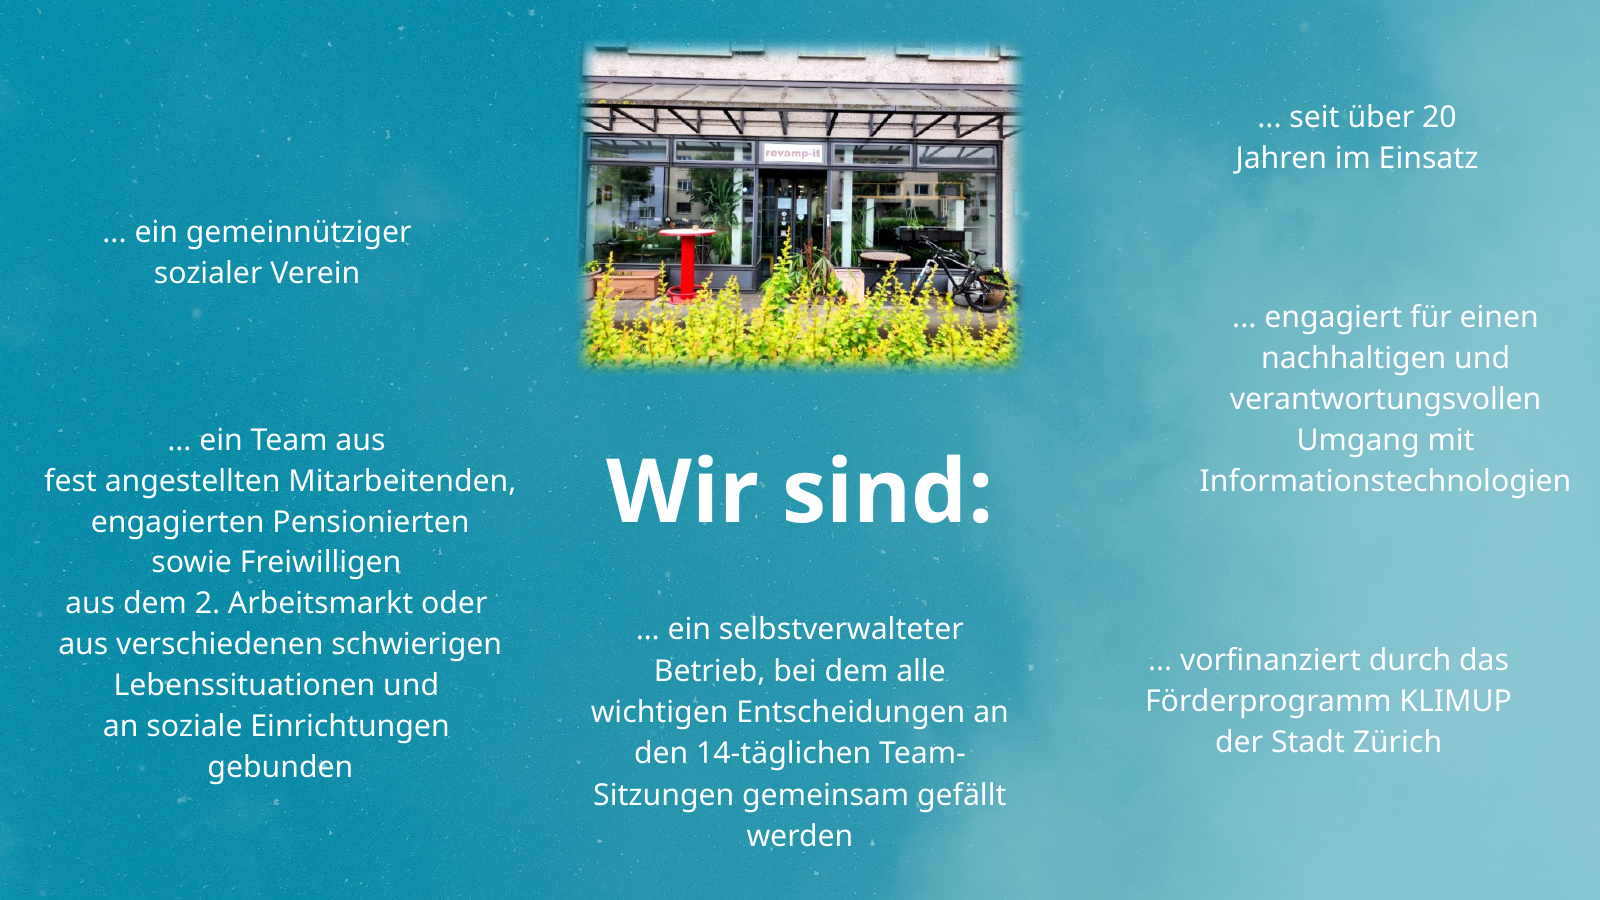
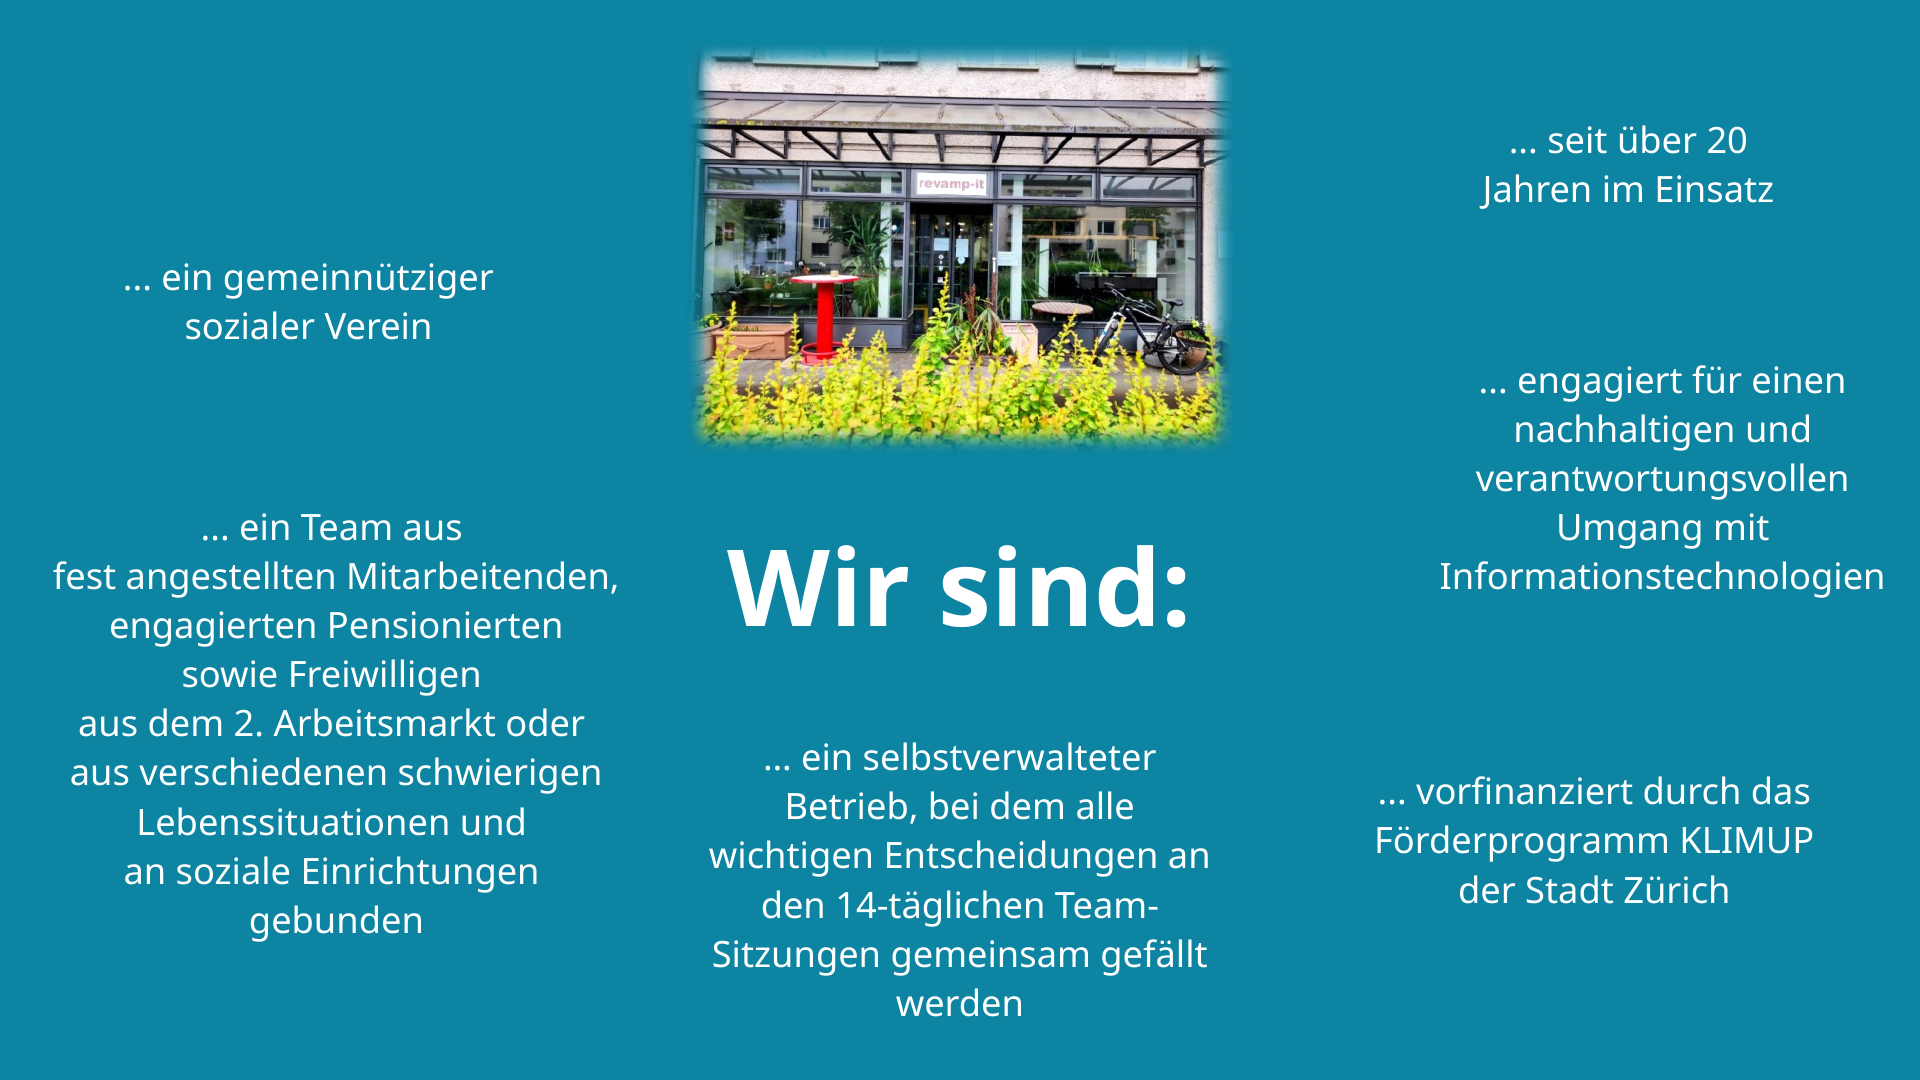
fix(presentations): V1 matches the current 17-slide Nextcloud deck
The team expanded the deck (12→17 slides: added Mitgliedschaften, Anlässe,
Projekte, Nutzung der Räumlichkeiten, Unser Versprechen + a Kundschaft photo)
after the first import. Re-render V1 from the current file at 1920px so the
'Original (Team)' deck is pixel-exact to what's in Nextcloud now.

diff --git a/public/presentations/bewerbung-koch-original/index.html b/public/presentations/bewerbung-koch-original/index.html
@@ -186,19 +186,24 @@ body.exporting .progress, body.exporting .counter, body.exporting .nav-arrow, bo
 
 <div class="deck" id="deck">
 
-  <!-- V1 · UNVERÄNDERT · Die Original-Folien des Teams, Pixel für Pixel -->
-  <div class="slide" style="padding:0;background:#0a0a0a" data-no-watermark data-notes="Original-Folie 1 von 12 — Titel. Die Präsentation des Teams, unverändert übernommen."><img src="/presentations/bewerbung-koch-original/slides/s-01.png" alt="Original-Folie 1" style="width:100%;height:100%;object-fit:contain"></div>
-  <div class="slide" style="padding:0;background:#0a0a0a" data-notes="Original-Folie 2 — Wir sind."><img src="/presentations/bewerbung-koch-original/slides/s-02.png" alt="Original-Folie 2" style="width:100%;height:100%;object-fit:contain"></div>
-  <div class="slide" style="padding:0;background:#0a0a0a" data-notes="Original-Folie 3 — Unsere Mission."><img src="/presentations/bewerbung-koch-original/slides/s-03.png" alt="Original-Folie 3" style="width:100%;height:100%;object-fit:contain"></div>
-  <div class="slide" style="padding:0;background:#0a0a0a" data-notes="Original-Folie 4 — Was wir anbieten."><img src="/presentations/bewerbung-koch-original/slides/s-04.png" alt="Original-Folie 4" style="width:100%;height:100%;object-fit:contain"></div>
-  <div class="slide" style="padding:0;background:#0a0a0a" data-notes="Original-Folie 5 — Unsere Kundschaft."><img src="/presentations/bewerbung-koch-original/slides/s-05.png" alt="Original-Folie 5" style="width:100%;height:100%;object-fit:contain"></div>
-  <div class="slide" style="padding:0;background:#0a0a0a" data-notes="Original-Folie 6 — im Original ein unfertiges Vorlagen-Balkendiagramm."><img src="/presentations/bewerbung-koch-original/slides/s-06.png" alt="Original-Folie 6" style="width:100%;height:100%;object-fit:contain"></div>
-  <div class="slide" style="padding:0;background:#0a0a0a" data-notes="Original-Folie 7 — im Original ein unfertiges Vorlagen-Liniendiagramm."><img src="/presentations/bewerbung-koch-original/slides/s-07.png" alt="Original-Folie 7" style="width:100%;height:100%;object-fit:contain"></div>
-  <div class="slide" style="padding:0;background:#0a0a0a" data-notes="Original-Folie 8 — im Original ein leeres Struktur-Diagramm."><img src="/presentations/bewerbung-koch-original/slides/s-08.png" alt="Original-Folie 8" style="width:100%;height:100%;object-fit:contain"></div>
-  <div class="slide" style="padding:0;background:#0a0a0a" data-notes="Original-Folie 9 — im Original die Budget-Tabelle mit «Lorem Ipsum»-Platzhaltern."><img src="/presentations/bewerbung-koch-original/slides/s-09.png" alt="Original-Folie 9" style="width:100%;height:100%;object-fit:contain"></div>
-  <div class="slide" style="padding:0;background:#0a0a0a" data-notes="Original-Folie 10 — Zeitachse 2016."><img src="/presentations/bewerbung-koch-original/slides/s-10.png" alt="Original-Folie 10" style="width:100%;height:100%;object-fit:contain"></div>
-  <div class="slide" style="padding:0;background:#0a0a0a" data-notes="Original-Folie 11 — Zeitachse 2020."><img src="/presentations/bewerbung-koch-original/slides/s-11.png" alt="Original-Folie 11" style="width:100%;height:100%;object-fit:contain"></div>
-  <div class="slide" style="padding:0;background:#0a0a0a" data-no-watermark data-notes="Original-Folie 12 — Vielen Dank für Eure Aufmerksamkeit."><img src="/presentations/bewerbung-koch-original/slides/s-12.png" alt="Original-Folie 12" style="width:100%;height:100%;object-fit:contain"></div>
+  <!-- V1 · UNVERÄNDERT · Die Original-Folien des Teams aus Nextcloud, Pixel für Pixel -->
+  <div class="slide" style="padding:0;background:#0a0a0a" data-no-watermark data-notes="Original-Folie 1 von 17 — unveränderte Team-Präsentation aus Nextcloud."><img src="/presentations/bewerbung-koch-original/slides/s-01.png" alt="Original-Folie 1" style="width:100%;height:100%;object-fit:contain"></div>
+  <div class="slide" style="padding:0;background:#0a0a0a" data-notes="Original-Folie 2 von 17 — unveränderte Team-Präsentation aus Nextcloud."><img src="/presentations/bewerbung-koch-original/slides/s-02.png" alt="Original-Folie 2" style="width:100%;height:100%;object-fit:contain"></div>
+  <div class="slide" style="padding:0;background:#0a0a0a" data-notes="Original-Folie 3 von 17 — unveränderte Team-Präsentation aus Nextcloud."><img src="/presentations/bewerbung-koch-original/slides/s-03.png" alt="Original-Folie 3" style="width:100%;height:100%;object-fit:contain"></div>
+  <div class="slide" style="padding:0;background:#0a0a0a" data-notes="Original-Folie 4 von 17 — unveränderte Team-Präsentation aus Nextcloud."><img src="/presentations/bewerbung-koch-original/slides/s-04.png" alt="Original-Folie 4" style="width:100%;height:100%;object-fit:contain"></div>
+  <div class="slide" style="padding:0;background:#0a0a0a" data-notes="Original-Folie 5 von 17 — unveränderte Team-Präsentation aus Nextcloud."><img src="/presentations/bewerbung-koch-original/slides/s-05.png" alt="Original-Folie 5" style="width:100%;height:100%;object-fit:contain"></div>
+  <div class="slide" style="padding:0;background:#0a0a0a" data-notes="Original-Folie 6 von 17 — unveränderte Team-Präsentation aus Nextcloud."><img src="/presentations/bewerbung-koch-original/slides/s-06.png" alt="Original-Folie 6" style="width:100%;height:100%;object-fit:contain"></div>
+  <div class="slide" style="padding:0;background:#0a0a0a" data-notes="Original-Folie 7 von 17 — unveränderte Team-Präsentation aus Nextcloud."><img src="/presentations/bewerbung-koch-original/slides/s-07.png" alt="Original-Folie 7" style="width:100%;height:100%;object-fit:contain"></div>
+  <div class="slide" style="padding:0;background:#0a0a0a" data-notes="Original-Folie 8 von 17 — unveränderte Team-Präsentation aus Nextcloud."><img src="/presentations/bewerbung-koch-original/slides/s-08.png" alt="Original-Folie 8" style="width:100%;height:100%;object-fit:contain"></div>
+  <div class="slide" style="padding:0;background:#0a0a0a" data-notes="Original-Folie 9 von 17 — unveränderte Team-Präsentation aus Nextcloud."><img src="/presentations/bewerbung-koch-original/slides/s-09.png" alt="Original-Folie 9" style="width:100%;height:100%;object-fit:contain"></div>
+  <div class="slide" style="padding:0;background:#0a0a0a" data-notes="Original-Folie 10 von 17 — unveränderte Team-Präsentation aus Nextcloud."><img src="/presentations/bewerbung-koch-original/slides/s-10.png" alt="Original-Folie 10" style="width:100%;height:100%;object-fit:contain"></div>
+  <div class="slide" style="padding:0;background:#0a0a0a" data-notes="Original-Folie 11 von 17 — unveränderte Team-Präsentation aus Nextcloud."><img src="/presentations/bewerbung-koch-original/slides/s-11.png" alt="Original-Folie 11" style="width:100%;height:100%;object-fit:contain"></div>
+  <div class="slide" style="padding:0;background:#0a0a0a" data-notes="Original-Folie 12 von 17 — unveränderte Team-Präsentation aus Nextcloud."><img src="/presentations/bewerbung-koch-original/slides/s-12.png" alt="Original-Folie 12" style="width:100%;height:100%;object-fit:contain"></div>
+  <div class="slide" style="padding:0;background:#0a0a0a" data-notes="Original-Folie 13 von 17 — unveränderte Team-Präsentation aus Nextcloud."><img src="/presentations/bewerbung-koch-original/slides/s-13.png" alt="Original-Folie 13" style="width:100%;height:100%;object-fit:contain"></div>
+  <div class="slide" style="padding:0;background:#0a0a0a" data-notes="Original-Folie 14 von 17 — unveränderte Team-Präsentation aus Nextcloud."><img src="/presentations/bewerbung-koch-original/slides/s-14.png" alt="Original-Folie 14" style="width:100%;height:100%;object-fit:contain"></div>
+  <div class="slide" style="padding:0;background:#0a0a0a" data-notes="Original-Folie 15 von 17 — unveränderte Team-Präsentation aus Nextcloud."><img src="/presentations/bewerbung-koch-original/slides/s-15.png" alt="Original-Folie 15" style="width:100%;height:100%;object-fit:contain"></div>
+  <div class="slide" style="padding:0;background:#0a0a0a" data-notes="Original-Folie 16 von 17 — unveränderte Team-Präsentation aus Nextcloud."><img src="/presentations/bewerbung-koch-original/slides/s-16.png" alt="Original-Folie 16" style="width:100%;height:100%;object-fit:contain"></div>
+  <div class="slide" style="padding:0;background:#0a0a0a" data-no-watermark data-notes="Original-Folie 17 von 17 — unveränderte Team-Präsentation aus Nextcloud."><img src="/presentations/bewerbung-koch-original/slides/s-17.png" alt="Original-Folie 17" style="width:100%;height:100%;object-fit:contain"></div>
 
 </div>
 
